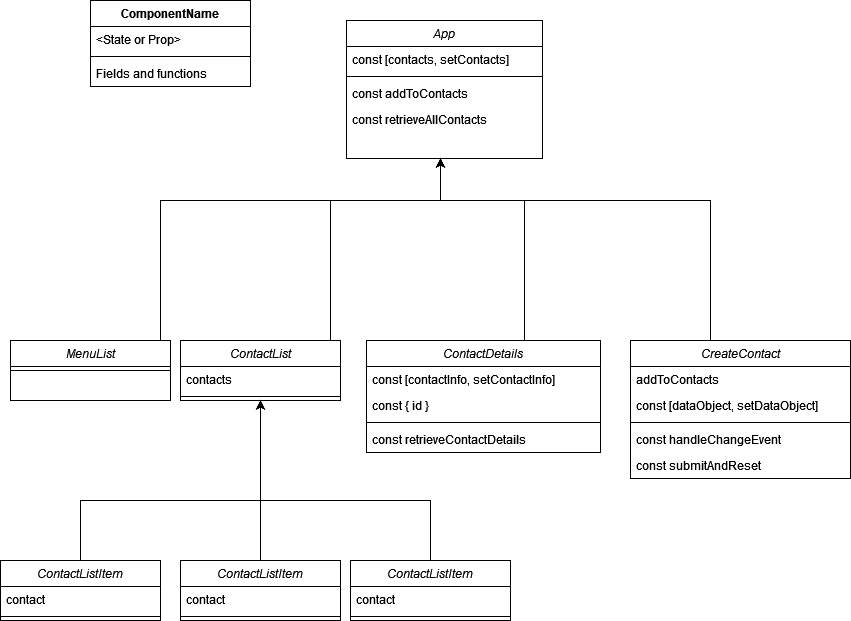
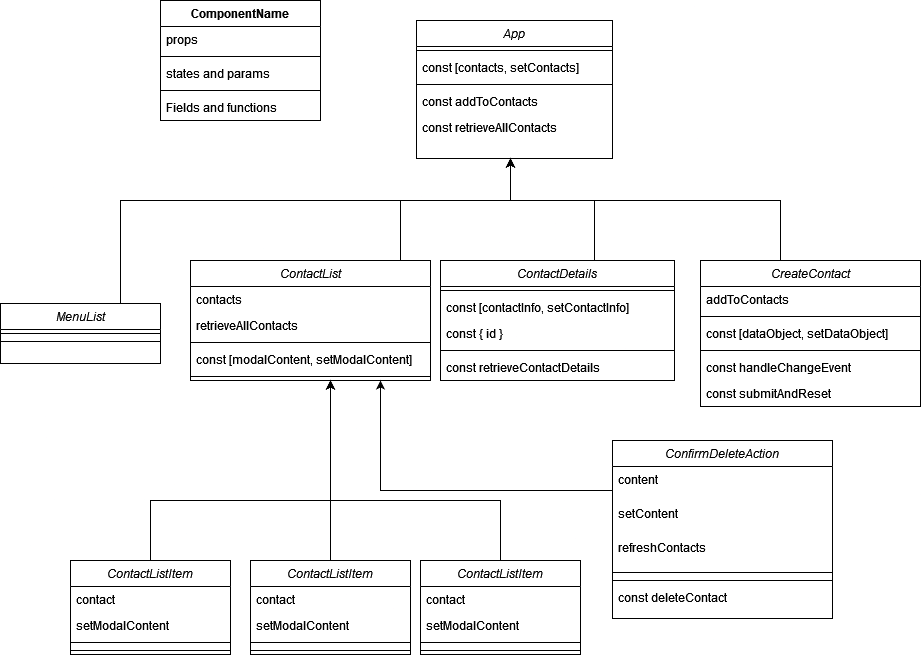
Extension 1/3 - Updated component tree and state_model to handle deletions

diff --git a/Address_book_state_model.md b/Address_book_state_model.md
@@ -12,3 +12,7 @@ dataObject, along with its associated setter, will gather all form data in a sin
 ## ContactDetails
 
 ContactDetails will contain its own state, contact and setContact, that keeps the data related to a specific individual on the contact list. This data will be fetched in the component, based on the :id param in the url, which is extracted and added to the fetch query.
+
+## ContactList
+
+The contactList component will contain a state that is either undefined or a contact object. This state is passed to the ConfirmDeleteAction, acting as a modal confirmation that the user wishes to delete the contact.

diff --git a/style-guide.md b/style-guide.md
@@ -8,6 +8,6 @@
 
 ## Colors
 
-- Button-color: #ed9f6f
-- Form-field-color: #fdffd7
-- page-background-color: #efffe6
+- Button-color: <span style="color: #ed9f6f">#ed9f6f</span>
+- Form-field-color: <span style="color: #fdffd7">#fdffd7</span>
+- page-background-color: <span style="color: #efffe6">#efffe6</span>
